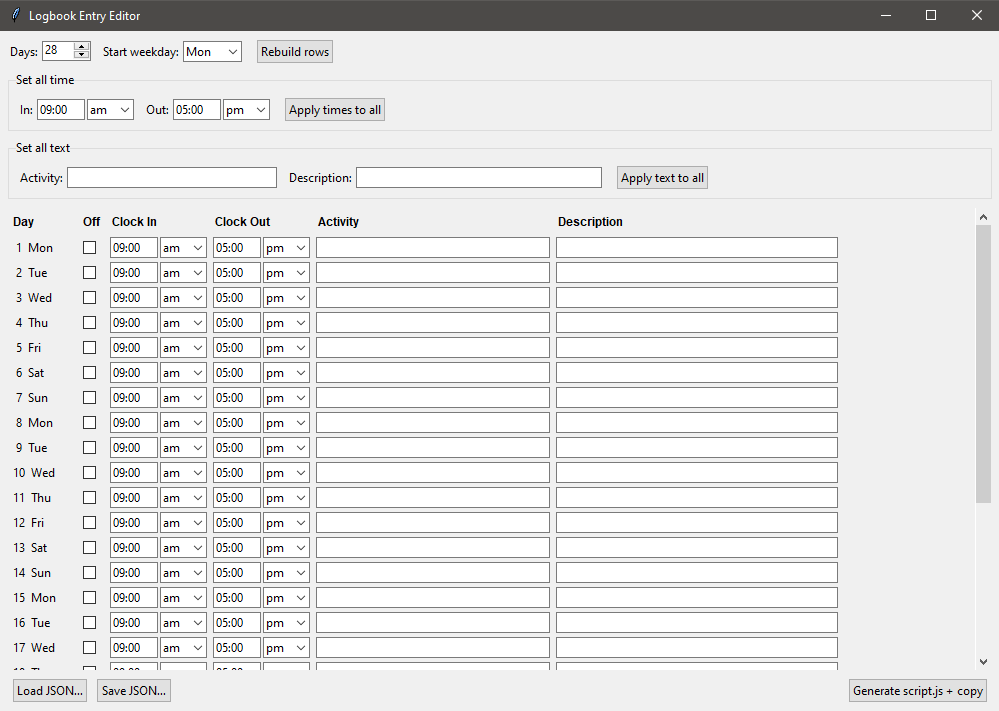
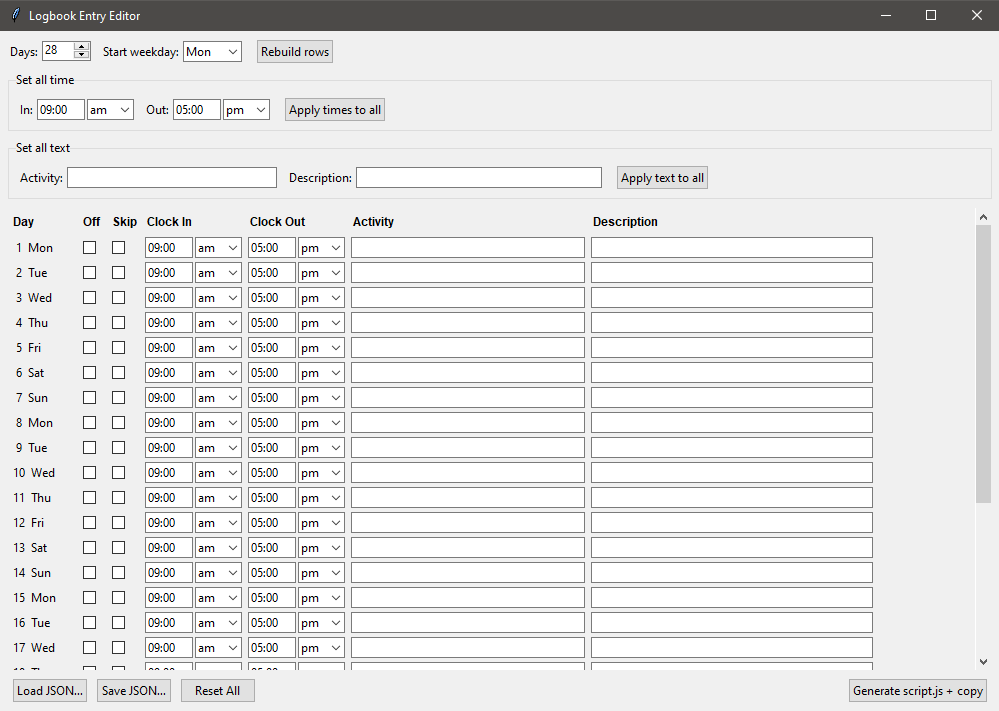
Updated README

diff --git a/README.md b/README.md
@@ -16,12 +16,18 @@ python logbook_ui.py
    Click **Rebuild rows** to regenerate the table.
 2. Per row, set **Clock In** / **Clock Out** (time text + `am`/`pm` selector),
    **Activity**, and **Description**.
-3. Tick **Off** on any day that should be marked OFF (its fields disable; the
-   script clicks the Off button for that row).
+3. Per-row flags:
+   - **Off** — mark the day OFF. Fields disable; the script clicks the Off
+     button for that row.
+   - **Skip** — leave the day completely untouched. The row's button is not
+     clicked at all (nothing filled, no Off). Use it for days already filled
+     correctly that you don't want changed. Disables the rest of the row.
 4. Shortcuts:
    - **Set all time** → fill In/Out + am/pm → **Apply times to all**.
    - **Set all text** → fill Activity/Description → **Apply text to all**.
-   - Both skip Off rows. Tweak individual rows afterward.
+   - Both skip Off and Skip rows. Tweak individual rows afterward.
+   - **Reset All** → confirm popup → restores every row to default times,
+     blank text, and clears all Off/Skip flags.
 5. *(Optional)* **Save JSON…** to keep your values, **Load JSON…** to reload them later.
 
 > Row order must match the row order on the logbook page (top to bottom).
@@ -40,13 +46,24 @@ Click **Generate script.js + copy**. This:
 3. If the console asks, type `allow pasting` and press Enter.
 4. Paste (`Ctrl+V`) the script and press **Enter**.
 
-The script clicks each row's detail button, fills the fields (or marks OFF), and
-submits — one row per `entries[]` element, in order.
+The script grabs **every** day button in page order (`.detailsbtn`) — both
+empty (blue) and already-filled (orange) — and maps `buttons[i]` to
+`entries[i]`. For each row it either fills + submits, marks OFF, or (for **Skip**
+rows) does nothing and moves on.
+
+## How button matching works
+
+- One combined array in document order, so index `i` always lines up with day
+  `i` regardless of button color. This is why the row order in the UI must match
+  the page top-to-bottom.
+- Filling a day that's already filled (orange) just **overwrites** it — no extra
+  flag needed.
+- **Skip** is the only way to leave a day alone; its button is never clicked.
 
 ## Notes
 
-- Selector targets the **submit** buttons (`.button.button-primary.detailsbtn`).
-  To target **edit** buttons instead, swap to the commented `.button-orange`
-  line inside the generated script.
+- Assumes exactly one `.detailsbtn` per day, in day order. If a filled day
+  rendered no button, indexes would shift — Skip the affected rows or use
+  matching day count.
 - Time values are always well-formed (`09:00 am`) because am/pm is a selector,
   not free text.